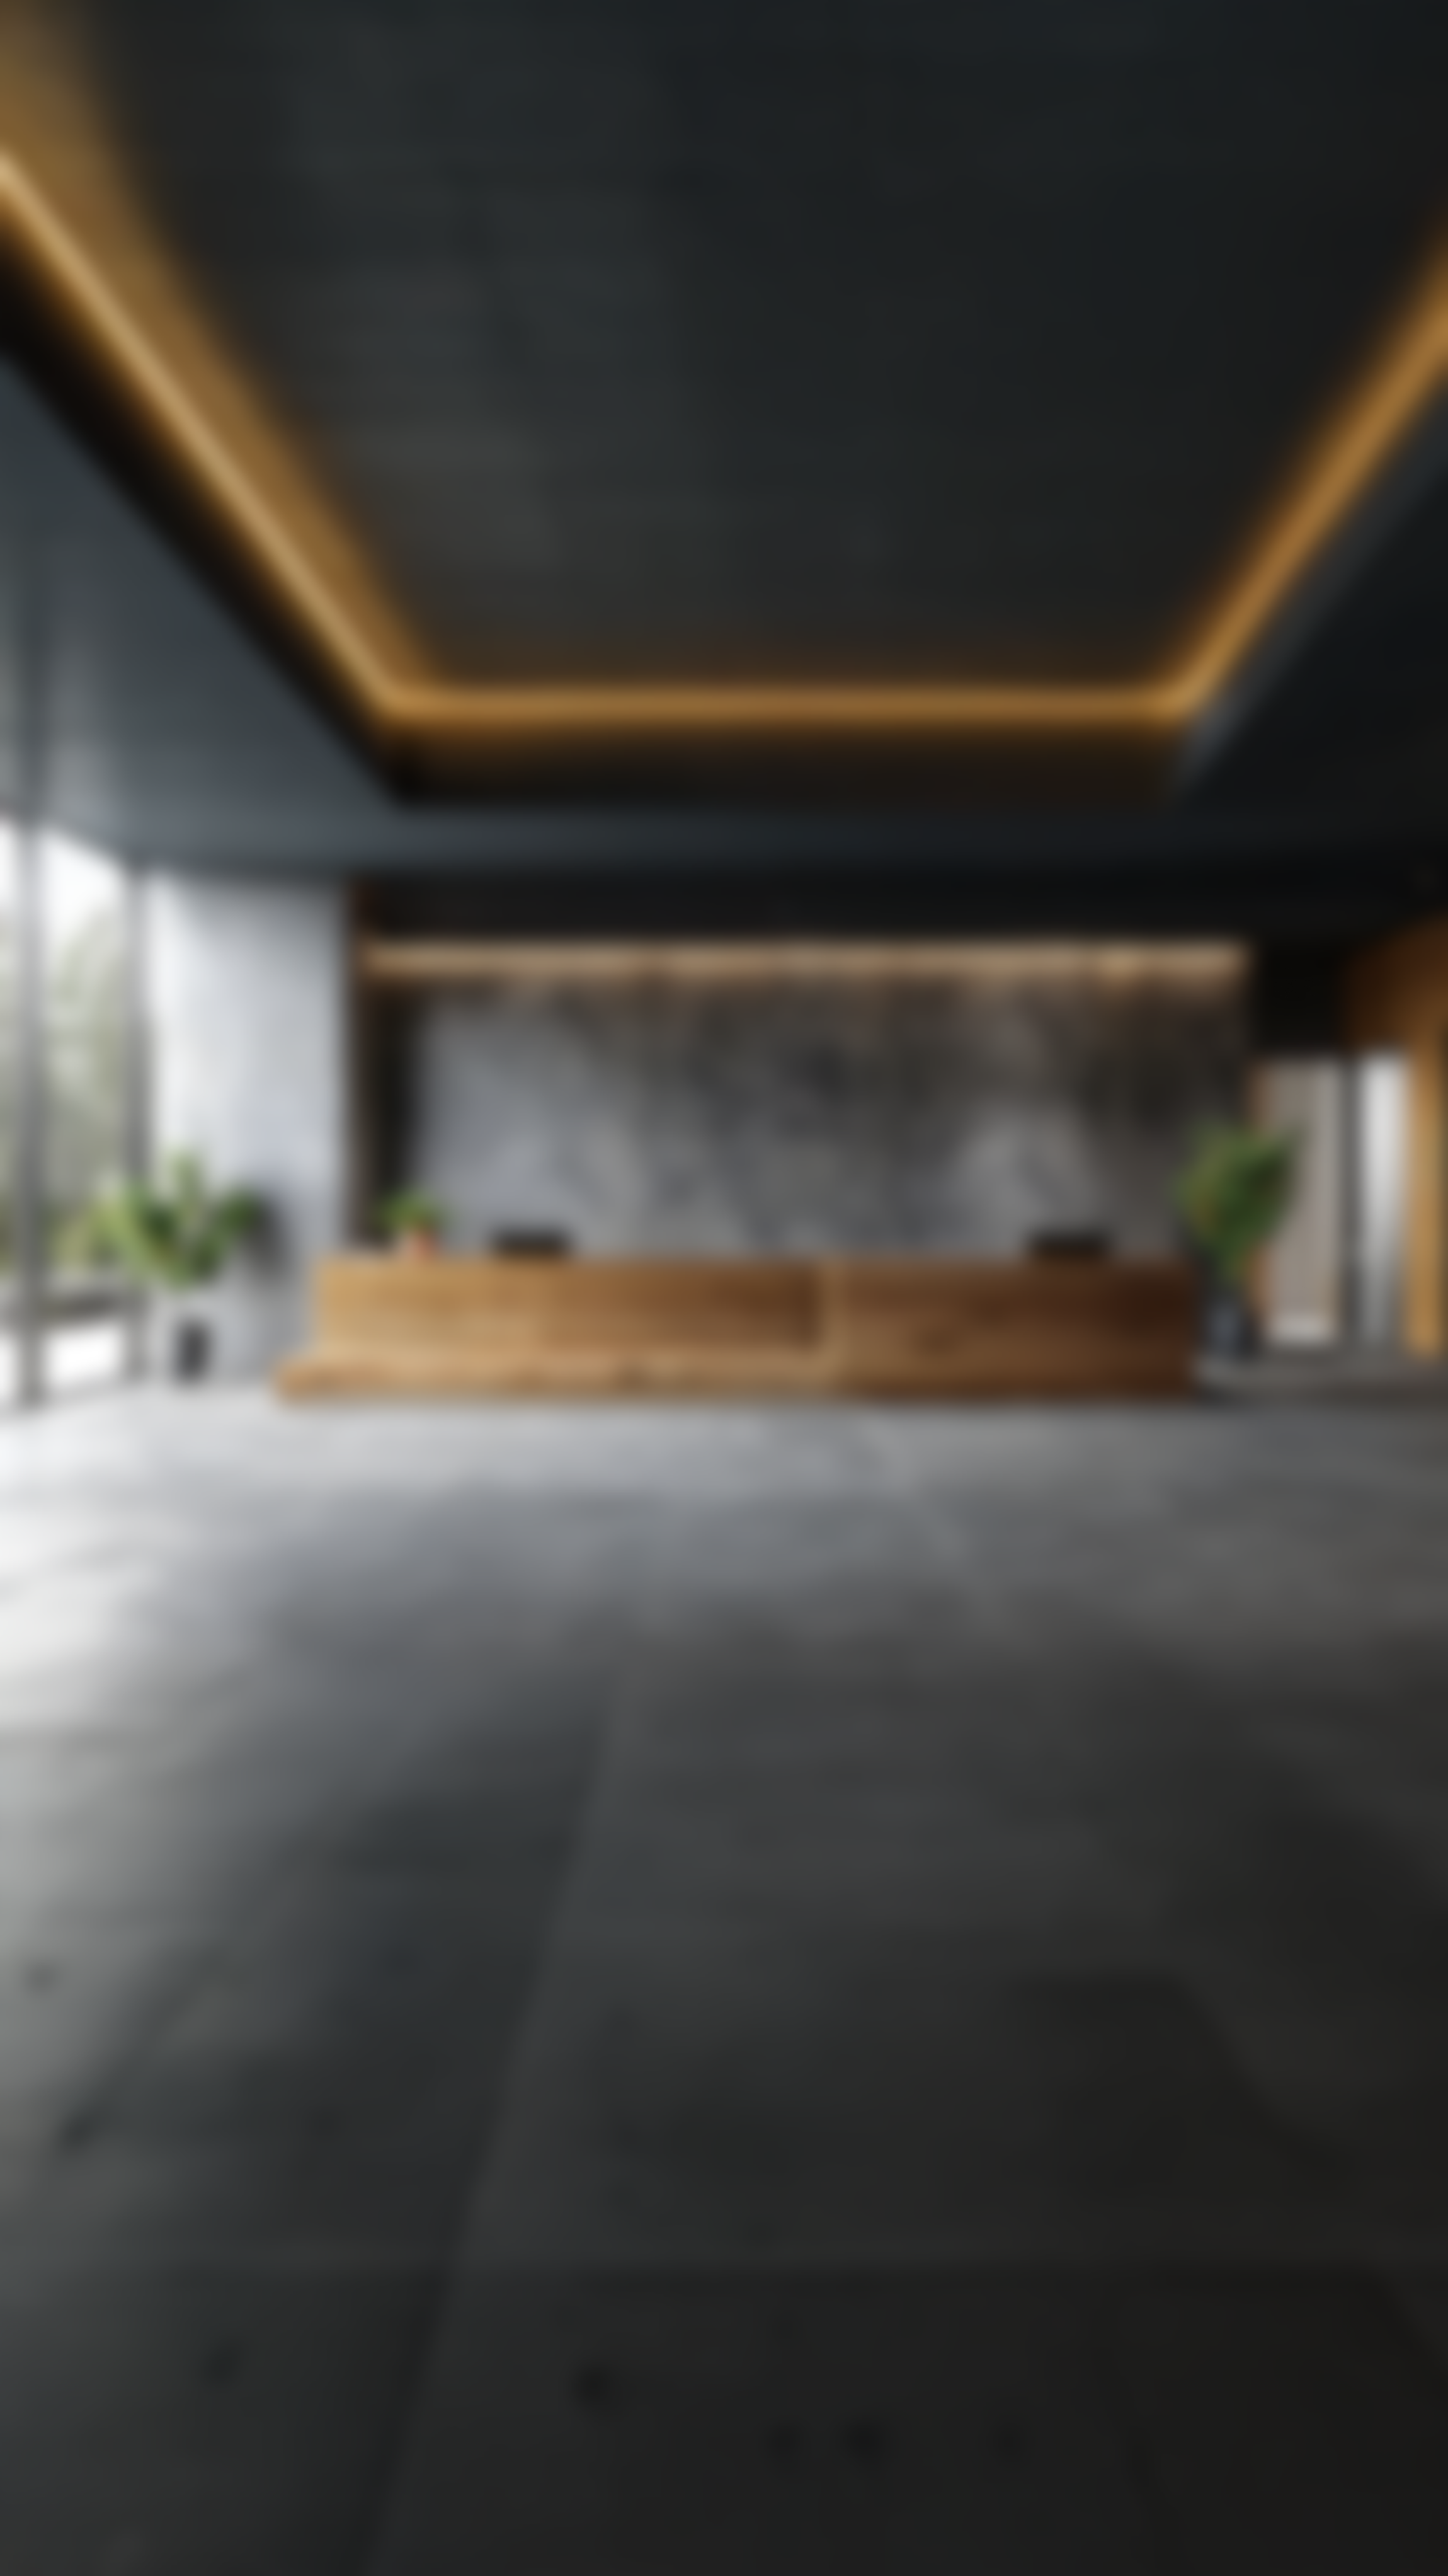
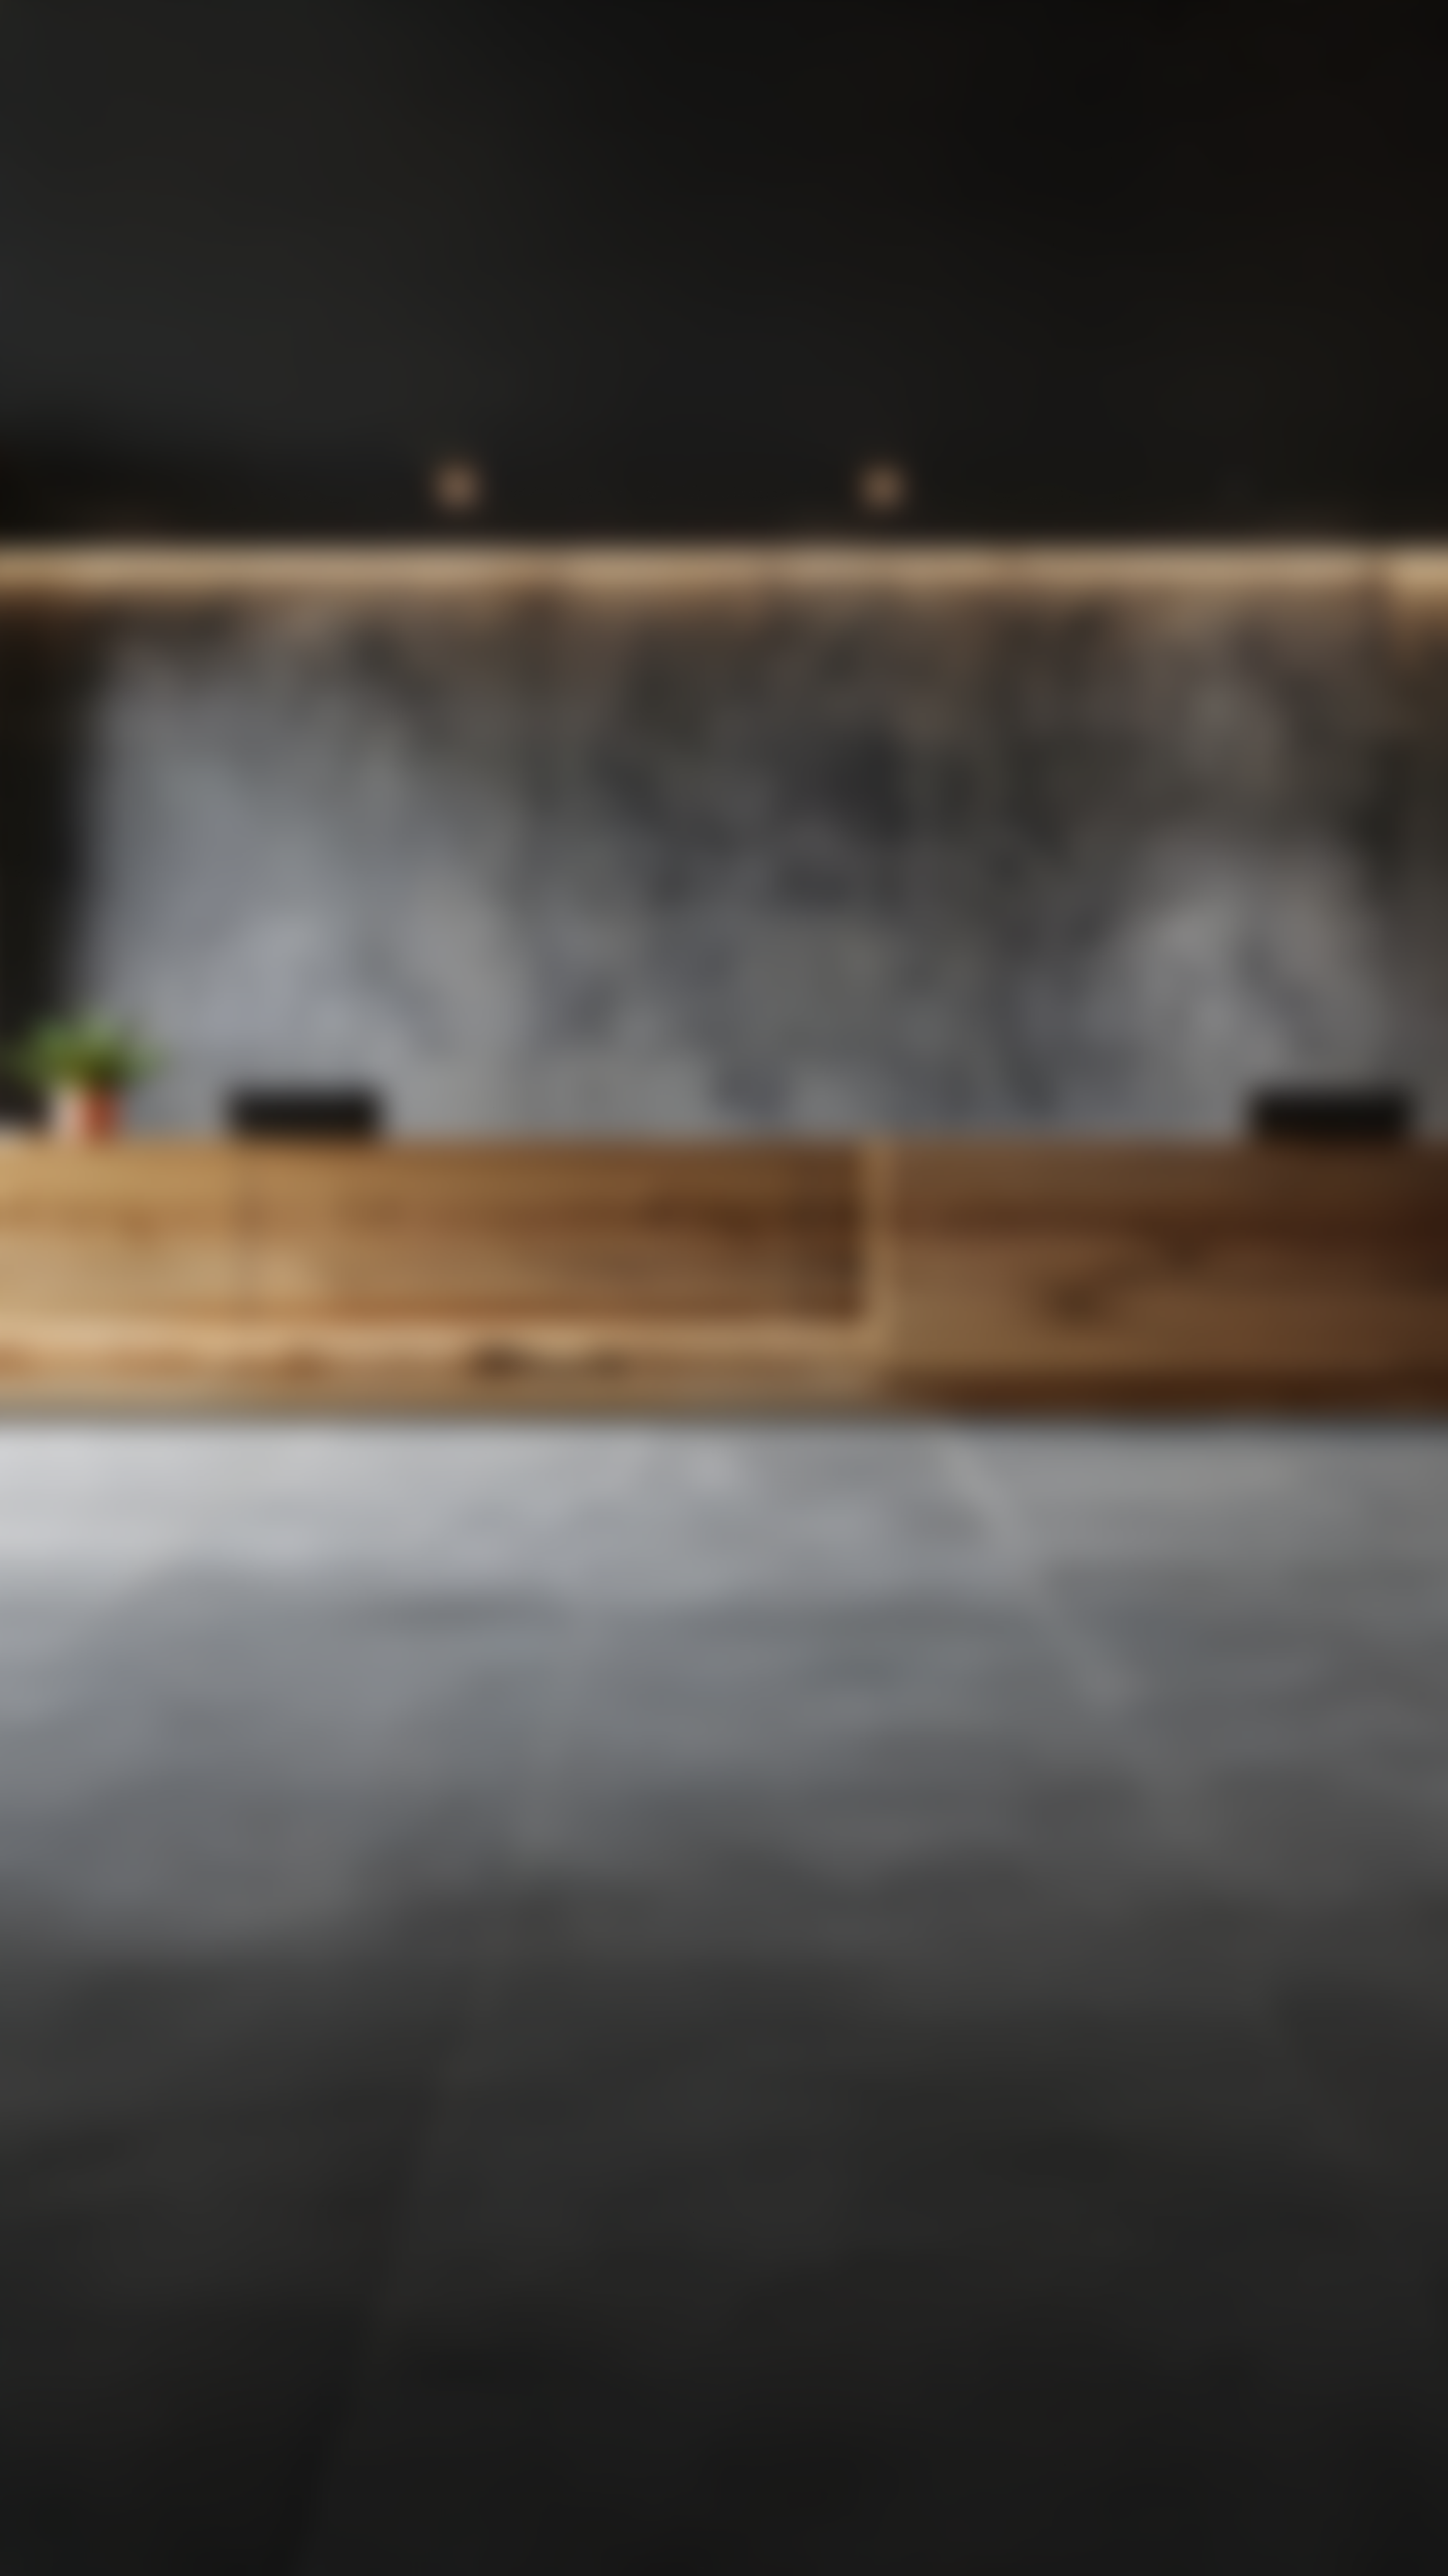
Organized components/pages into folders

diff --git a/src/pages/PropertyProfile/PropertyProfile.jsx b/src/pages/PropertyProfile/PropertyProfile.jsx
@@ -1,14 +1,14 @@
 import { useState } from 'react';
 import { Link, useParams } from 'react-router-dom';
 import { Tabs, Tab, Box } from '@mui/material';
-import Header from '../components/Header';
-import Footer from '../components/Footer';
-import propertyData from '../assets/properties.json';
-import { useFavourites } from '../context/FavContext';
+import Header from '../../components/Header/Header';
+import Footer from '../../components/Footer/Footer';
+import propertyData from '../../assets/properties.json';
+import { useFavourites } from '../../context/FavContext/FavContext';
 import FavoriteIcon from '@mui/icons-material/Favorite';
 import FavoriteBorderIcon from '@mui/icons-material/FavoriteBorder';
 import styles from './PropertyProfile.module.css';
-import PropertyMap from '../components/PropertyMap';
+import PropertyMap from '../../components/PropertyMap/PropertyMap';
 
 function TabPanel({ children, value, index }) {
   return (

diff --git a/src/pages/Search/Search.jsx b/src/pages/Search/Search.jsx
@@ -1,9 +1,9 @@
 import { useState, useEffect } from 'react';
-import Header from '../components/Header';
-import Footer from '../components/Footer';
-import SearchForm from '../components/SearchForm';
-import PropertyCard from '../components/PropertyCard';
-import propertiesData from '../assets/properties.json';
+import Header from '../../components/Header/Header';
+import Footer from '../../components/Footer/Footer';
+import SearchForm from '../../components/SearchForm/SearchForm';
+import PropertyCard from '../../components/PropertyCard/PropertyCard';
+import propertiesData from '../../assets/properties.json';
 import styles from './Search.module.css';
 
 function Search() {

diff --git a/src/components/Footer/Footer.jsx b/src/components/Footer/Footer.jsx
@@ -18,10 +18,10 @@ function Footer() {
           <div className={styles.footerSection}>
             <h3>Privacy Policy</h3>
             <ul>
-              <li><a href="/privacy">Privacy Policy</a></li>
-              <li><a href="/terms">Terms of Service</a></li>
-              <li><a href="/cookies">Cookie Policy</a></li>
-              <li><a href="/gdpr">GDPR Compliance</a></li>
+              <li><a href="/">Privacy Policy</a></li>
+              <li><a href="/">Terms of Service</a></li>
+              <li><a href="/">Cookie Policy</a></li>
+              <li><a href="/">GDPR Compliance</a></li>
             </ul>
           </div>
 

diff --git a/src/App.jsx b/src/App.jsx
@@ -1,9 +1,9 @@
 import { BrowserRouter as Router, Routes, Route } from 'react-router-dom'
 import { LoadScript } from '@react-google-maps/api'
-import Home from './pages/Home'
-import Search from './pages/Search'
-import Property from './pages/PropertyProfile'
-import { FavouritesProvider } from './context/FavContext'
+import Home from './pages/Home/Home'
+import Search from './pages/Search/Search'
+import Property from './pages/PropertyProfile/PropertyProfile'
+import { FavouritesProvider } from './context/FavContext/FavContext'
 
 function App() {
   return (

diff --git a/src/pages/Home/Home.module.css b/src/pages/Home/Home.module.css
@@ -1,6 +1,6 @@
 .banner {
   margin-top: 5rem;
-  background-image: url('../assets/images/banner.png');
+  background-image: url('../../assets/images/banner.png');
   background-size: cover;
   background-position: center;
   min-height: calc(100vh - 5rem);
@@ -70,7 +70,7 @@
 /* Mobile */
 @media (max-width: 768px) {
   .banner {
-    background-image: url('../assets/images/banner-mobile.png');
+    background-image: url('../../assets/images/banner-mobile.png');
   }
 
   .container {

diff --git a/src/components/FavDropdown/FavDropdown.jsx b/src/components/FavDropdown/FavDropdown.jsx
@@ -1,6 +1,6 @@
 import { useRef, useEffect } from 'react';
-import { useFavourites } from '../context/FavContext';
-import FavPropertyCard from './FavPropertyCard';
+import { useFavourites } from '../../context/FavContext/FavContext';
+import FavPropertyCard from '../FavPropertyCard/FavPropertyCard';
 import styles from './FavDropdown.module.css';
 
 function FavDropdown({ isOpen, onClose }) {

diff --git a/src/components/PropertyCard/PropertyCard.jsx b/src/components/PropertyCard/PropertyCard.jsx
@@ -1,5 +1,5 @@
 import { Link } from 'react-router-dom';
-import { useFavourites } from '../context/FavContext';
+import { useFavourites } from '../../context/FavContext/FavContext';
 import FavoriteIcon from '@mui/icons-material/Favorite';
 import FavoriteBorderIcon from '@mui/icons-material/FavoriteBorder';
 import styles from './PropertyCard.module.css';

diff --git a/src/components/Header/Header.jsx b/src/components/Header/Header.jsx
@@ -1,6 +1,6 @@
 import { useState } from 'react';
 import { Link } from 'react-router-dom';
-import FavDropdown from './FavDropdown';
+import FavDropdown from '../FavDropdown/FavDropdown';
 import SearchIcon from '@mui/icons-material/Search';
 import FavoriteIcon from '@mui/icons-material/Favorite';
 import styles from './Header.module.css';

diff --git a/src/pages/Home/Home.jsx b/src/pages/Home/Home.jsx
@@ -1,6 +1,6 @@
 import { Link } from 'react-router-dom'
-import Header from '../components/Header';
-import Footer from '../components/Footer';
+import Header from '../../components/Header/Header';
+import Footer from '../../components/Footer/Footer';
 import styles from './Home.module.css'
 
 function Home() {

diff --git a/src/components/FavPropertyCard/FavPropertyCard.jsx b/src/components/FavPropertyCard/FavPropertyCard.jsx
@@ -1,5 +1,5 @@
 import { Link } from 'react-router-dom';
-import { useFavourites } from '../context/FavContext';
+import { useFavourites } from '../../context/FavContext/FavContext';
 import FavoriteIcon from '@mui/icons-material/Favorite';
 import styles from './FavPropertyCard.module.css';
 
